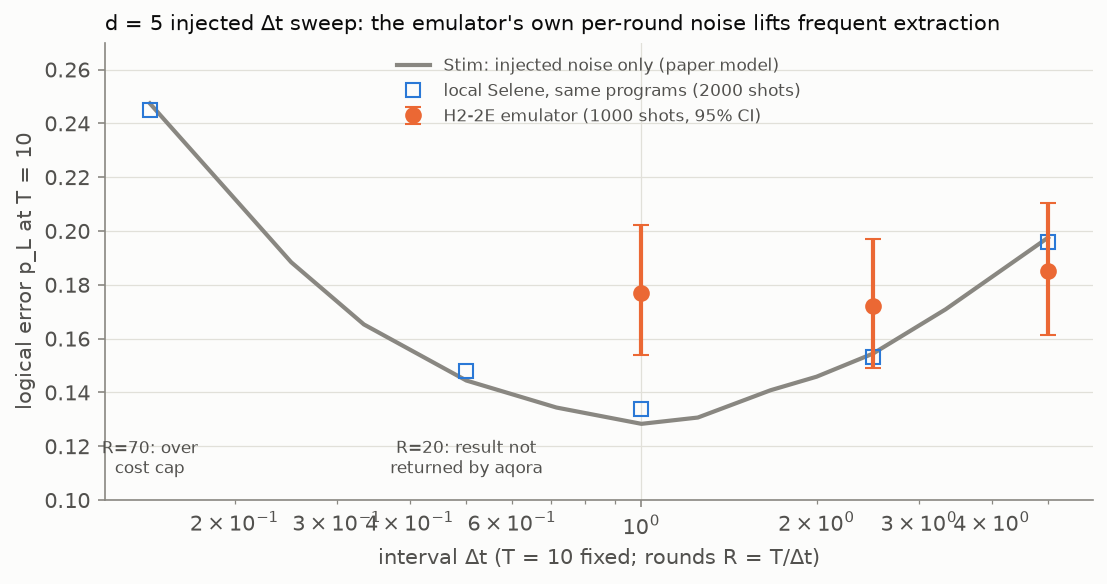
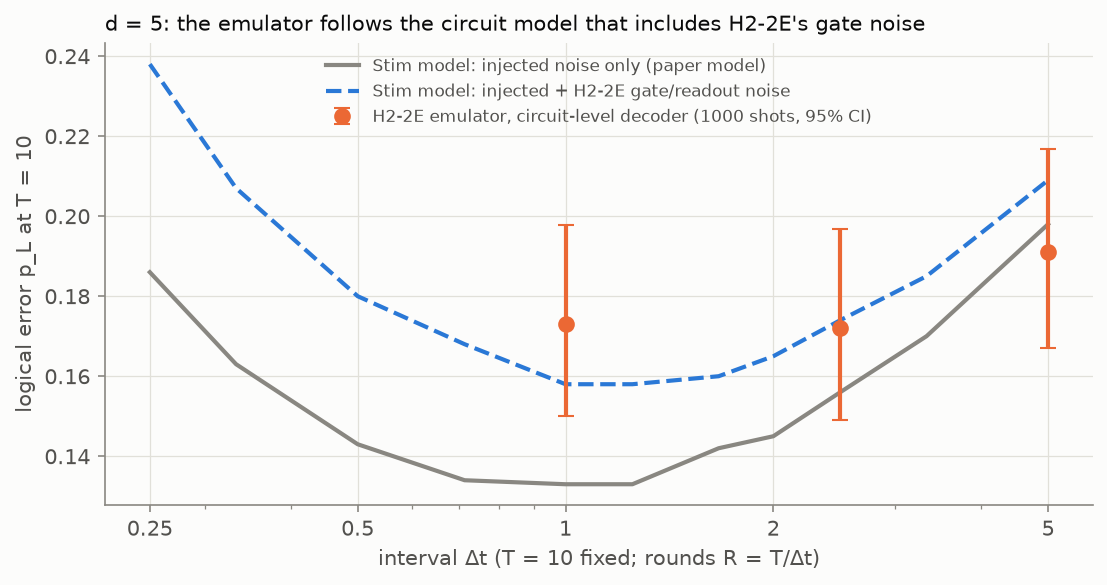
Hardware: circuit-level model of the hardware program; decode and predict the H2-2E sweep
program_model.program_circuit rebuilds hardware.qir's memory program in Stim (one
reused ancilla, serial checks, injected p_data) with device gate/readout noise. Its
DEM decodes returned shots; its samples predict p_L. H2-2E agrees within ~1 sigma
at all three points; the +4 sigma vs the paper model was per-round gate noise.

diff --git a/src/qec_timing/hardware/program_model.py b/src/qec_timing/hardware/program_model.py
@@ -1,0 +1,87 @@
+"""A Stim model of the HARDWARE memory program (`hardware.qir.build_program`), gate for gate.
+
+The hardware program differs from the textbook memory circuit: ONE ancilla is reused for
+every check (measure, reset), checks run one after another in their extraction order,
+and the injected data error p_data(dt) is applied to every data qubit before each round.
+This module rebuilds that program in Stim with circuit-level noise at a device's rates,
+so its detector error model can (1) decode shots returned by an emulator or device with
+the right edge weights, hooks included, and (2) predict p_L for that device.
+
+Noise placed (all optional, rates from a data sheet or emulator page):
+    p1      DEPOLARIZE1 after each single-qubit gate (H here; the native decomposition
+            has more single-qubit gates at the same small rate, not modelled one by one)
+    p2      DEPOLARIZE2 after each CX (one native ZZ each)
+    p_meas  record flip before each measurement (ancilla and final data readout)
+    p_init  X flip after each reset / preparation
+    p_read  extra record flip on every recorded bit (the paper's b_read p, which the
+            hardware analysis adds offline); composed with p_meas
+Not modelled: idle dephasing in real time (the round's duration on the device is
+unknown), leakage, crosstalk. Detectors and observable follow `records.record_from_bits`
+exactly, so a returned shot's detection events decode against this model's DEM.
+"""
+
+from __future__ import annotations
+
+import stim
+
+from qec_timing.codes.base import checks_of
+from qec_timing.extract.edges import xor
+from qec_timing.hardware.qir import injection_probability
+from qec_timing.spec import MemorySpec
+
+
+def program_circuit(spec: MemorySpec, p1: float = 0.0, p2: float = 0.0, p_meas: float = 0.0,
+                    p_init: float = 0.0, p_read: float = 0.0) -> stim.Circuit:
+    code, basis = spec.code, spec.basis
+    if basis != "X":
+        raise ValueError("written for the X-basis memory the hardware runs use")
+    checks = checks_of(code, basis)
+    n, R, C = code.n_data, spec.schedule.n_rounds, len(checks)
+    anc = n
+    p_data = injection_probability(spec)
+    q_read = float(xor(p_meas, p_read))
+    c = stim.Circuit()
+    c.append("R", range(n + 1))
+    if p_init:
+        c.append("X_ERROR", range(n + 1), p_init)
+    c.append("H", range(n))
+    if p1:
+        c.append("DEPOLARIZE1", range(n), p1)
+    for r in range(R):
+        if p_data:
+            c.append("Z_ERROR", range(n), p_data)
+        for ch in checks:
+            c.append("H", [anc])
+            if p1:
+                c.append("DEPOLARIZE1", [anc], p1)
+            for i in ch.extraction_order:
+                c.append("CX", [anc, i])
+                if p2:
+                    c.append("DEPOLARIZE2", [anc, i], p2)
+            c.append("H", [anc])
+            if p1:
+                c.append("DEPOLARIZE1", [anc], p1)
+            if q_read:
+                c.append("X_ERROR", [anc], q_read)
+            c.append("M", [anc])
+            c.append("R", [anc])
+            if p_init:
+                c.append("X_ERROR", [anc], p_init)
+    c.append("H", range(n))
+    if p1:
+        c.append("DEPOLARIZE1", range(n), p1)
+    if q_read:
+        c.append("X_ERROR", range(n), q_read)
+    c.append("M", range(n))
+    # Detectors in record_from_bits order: round r, check k (r = 0 against the ideal 0),
+    # then the final block (data parity of each check against the last syndrome).
+    n_meas = R * C + n
+    syn = lambda r, k: stim.target_rec(r * C + k - n_meas)          # noqa: E731
+    dat = lambda i: stim.target_rec(R * C + i - n_meas)             # noqa: E731
+    for r in range(R):
+        for k in range(C):
+            c.append("DETECTOR", [syn(r, k)] + ([syn(r - 1, k)] if r else []))
+    for k, ch in enumerate(checks):
+        c.append("DETECTOR", [dat(i) for i in ch.support] + [syn(R - 1, k)])
+    c.append("OBSERVABLE_INCLUDE", [dat(i) for i in code.logical(basis)], 0)
+    return c

diff --git a/results/hardware/emulator_runs.md b/results/hardware/emulator_runs.md
@@ -66,3 +66,22 @@ The emulator's own per-round noise lifts p_L most where there are most rounds: t
 its minimum moves to longer Δt. Decoding uses the paper-model graph (emulator errors not on it).
 
 ![d=5 sweep](h2_2e_dt_sweep_d5.png)
+
+### Circuit-level decoder and prediction (no new runs)
+
+`hardware/program_model.py` rebuilds the hardware program in Stim gate for gate (one reused
+ancilla, serial checks, injected p_data(Δt)) with H2-2E's p1 = 7.3e-5, p2 = 1.29e-3 and, as an
+assumption, H2-1E's p_meas = 1e-3, p_init = 4e-5; no idle dephasing or leakage. Its DEM decodes the
+returned shots; sampling it predicts p_L. Checks: without gate noise it reproduces the paper model
+(0.144/0.132/0.153/0.200 vs 0.142/0.134/0.156/0.199) and decodes local Selene identically.
+
+| Δt | H2-2E, paper graph | H2-2E, circuit decoder | model with H2-2E gates | difference |
+| --- | --- | --- | --- | --- |
+| 1 | 0.177 | 0.173 | 0.159 | +1.2σ |
+| 2.5 | 0.172 | 0.172 | 0.173 | 0.0σ |
+| 5 | 0.185 | 0.191 | 0.208 | −1.4σ |
+
+The emulator matches the circuit model within ~1σ once its gate noise is included; the decoder
+change is small (≤ 0.006). So the earlier +4σ at Δt = 1 was the emulator's per-round gate cost, not
+decoder mismatch. The model with H2-2E gates has a flatter U (minimum ≈ 0.158 near Δt ≈ 1–1.25).
+Data: `h2_2e_dt_sweep_d5_circuit_decoder.json`, `h2_2e_dt_sweep_d5_model_curves.json`.
